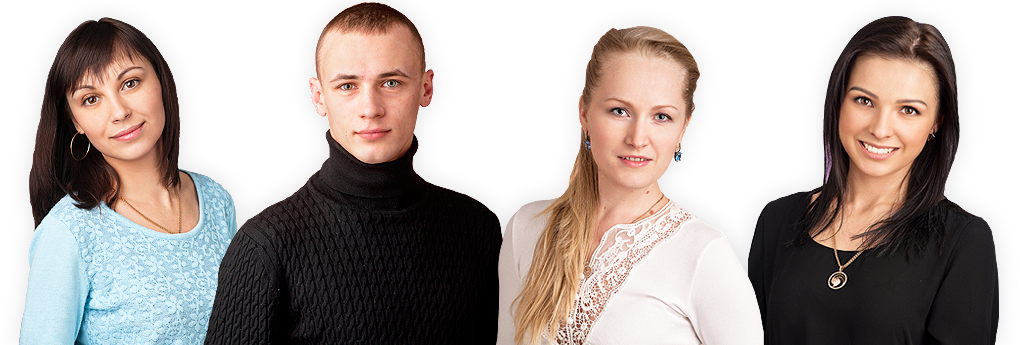
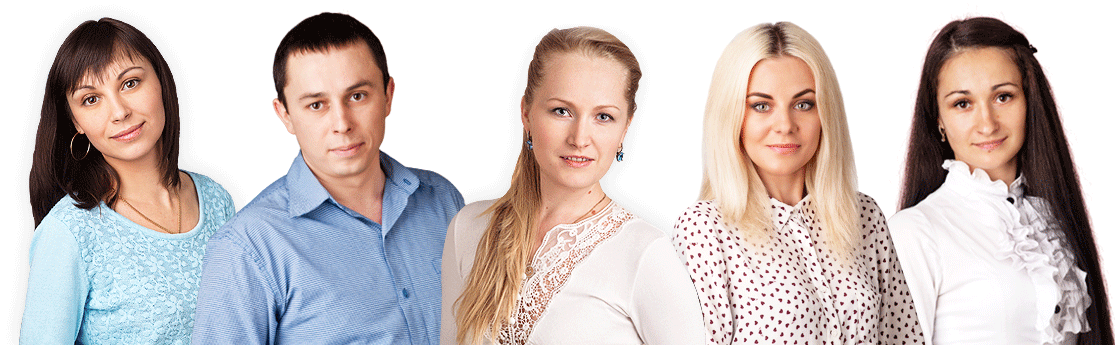
adaptive section "managers"

diff --git a/index.html b/index.html
@@ -466,34 +466,54 @@
 				<h2 class="title managers_title">Менеджеры Luvin<sup>tm</sup><br><span>помогут выбрать ваше идеальное окно</span></h2>
 				<figure class='title__line'></figure>
 				<div class="managers_content">
-					<div class="managers_options">
-						<p>
-							Подберём модель и конструкцию будущих окон
-						</p>
-						<p>
-							Предложим необходимые аксессуары
-						</p>
-						<p>
-							Компетентно ответим на все Ваши вопросы
-						</p>
+					<ul class="managers_options">
+						<li>
+							<p class="managers_options_atr">Подберём модель и конструкцию будущих окон</p>
+							<p>
+								согласно техническим критериям помещения и Вашим пожеланиям по цвету, форме, текстуре и др.
+							</p>
+						</li>
+						<li>
+							<p class="managers_options_atr">Предложим необходимые аксессуары</p>
+							<p>
+								москитные сетки, подоконники, отливы, жалюзи, тканевые или защитные ролеты и много другого по лучшим ценам для наших клиентов.
+							</p>
+						</li>
+						<li>
+							<p class="managers_options_atr">Компетентно ответим на все Ваши вопросы</p>
+							<p>
+								Вы можете задать вопрос нашим менеджерам на любом этапе сотрудничества. Оставьте заявку на сайте или позвоните нам.
+							</p>
+						</li>
+						<li>
+							<p class="managers_options_atr">Реализуем различные дизайнерские идеи</p>
+							<p>
+								нестандартные геометрические формы, более 50-ти цветов, декоративные накладки, витражные рисунки, скрытые петли.
+							</p>
+						</li>
+					</ul>
+					<div class="managers_images">
+						<img src="img/managers-luvin.png" alt="">
 					</div>
 					<div class="managers_form">
 						<h3 class="nameForm form_title">Напишите нам</h3>
 						<p class="nameFormComent form_description">Заполните короткую форму ниже и мы обязательно с вами свяжемся!</p>
 						<form action="" class="formStyle open_form" id="">
-							<div class="open_form_item">
-								<span class='valid'>укажите, как к вам обращаться</span>
-								<input placeholder="Ваше имя" type="text" name="name" id="name_man" class="open_form_item_input"/>
+							<div class="managers_form_input">
+								<div class="open_form_item">
+									<span class='valid'>укажите, как к вам обращаться</span>
+									<input placeholder="Ваше имя" type="text" name="name" id="name_man" class="open_form_item_input"/>
+								</div>
+								<div class="open_form_item">
+									<span class='valid'>пожалуйста, заполните поле email</span>
+									<input placeholder="Електронный адрес" type="email" name="email" id="email_man" class="open_form_item_input"/>
+								</div>
+								<div class="open_form_item">
+									<span class='valid'>укажите телефон для связи</span>
+									<input placeholder="Ваш телефон" type="text" name="phone" id="phone_man" class="open_form_item_input"/>
+								</div>
 							</div>
-							<div class="open_form_item">
-								<span class='valid'>пожалуйста, заполните поле email</span>
-								<input placeholder="Електронный адрес" type="email" name="email" id="email_man" class="open_form_item_input"/>
-							</div>
-							<div class="open_form_item">
-								<span class='valid'>укажите телефон для связи</span>
-								<input placeholder="Ваш телефон" type="text" name="phone" id="phone_man" class="open_form_item_input"/>
-							</div>
-							<div class="open_form_item">
+							<div class="open_form_item managers_form_textaling">
 								<input placeholder="Добавьте вопрос или комментарий" type="textarea" name="subject" id="cont_man" class="open_form_item_input"/>
 							</div>
 							<!-- submit_open_form -->
@@ -503,13 +523,7 @@
 							<p>Ваше обращение отправлено. Наш специалист скоро свяжется с вами.</p>
 						</div>
 					</div>
-					<!-- <div class="managers_images">
-						<img src="img/managers-1.png" alt="">
-						<img src="img/managers-1.png" alt="">
-						<img src="img/managers-1.png" alt="">
-						<img src="img/managers-1.png" alt="">
-						<img src="img/managers-1.png" alt="">
-					</div> -->
+					
 				</div>
 			</div>
 		</div>

diff --git a/css/style_lyuda.css b/css/style_lyuda.css
@@ -576,7 +576,7 @@ background: radial-gradient(ellipse at center, rgba(255,255,255,.9) 0%, rgba(255
 	display: block;
 	width: 20px;
 	height: 20px;
-	background-image: url(../pic/download.svg);
+	background-image: url('../pic/download.svg');
 	-webkit-background-size: contain;
 	     -o-background-size: contain;
 	        background-size: contain;
@@ -586,11 +586,11 @@ background: radial-gradient(ellipse at center, rgba(255,255,255,.9) 0%, rgba(255
 }
 
 .new-window_more-options .more-options_item:nth-child(1):hover::before {
-	background-image: url(../pic/download-hover.svg);
+	background-image: url('../pic/download-hover.svg');
 }
 
 .read-more_wrap1, .read-more_wrap2, .read-more_wrap3 {
-	background: url(../img/luvin-light-big.jpg) center top no-repeat;
+	background: url('../img/luvin-light-big.jpg') center top no-repeat;
 	-webkit-background-size: cover;
 	     -o-background-size: cover;
 	        background-size: cover;
@@ -599,7 +599,7 @@ background: radial-gradient(ellipse at center, rgba(255,255,255,.9) 0%, rgba(255
 }
 
 .read-more_wrap2{
-	background: url(../img/luvin-standart-big.jpg) center top no-repeat;
+	background: url('../img/luvin-standart-big.jpg') center top no-repeat;
 	-webkit-background-size: cover;
 	     -o-background-size: cover;
 	        background-size: cover;
@@ -651,7 +651,6 @@ background: radial-gradient(ellipse at center, rgba(255,255,255,.9) 0%, rgba(255
 }
 
 .managers_content {
-	position: relative;
 	margin: 5% auto 0;
 	background: none;
 	background: -moz-radial-gradient(center, ellipse cover, rgba(255,255,255,.9) 0%, rgba(255,255,255,0.5) 60%, rgba(255,255,255,0.1) 73%, rgba(255,255,255,0) 100%); /* ff3.6+ */
@@ -663,19 +662,77 @@ background: radial-gradient(ellipse at center, rgba(255,255,255,.9) 0%, rgba(255
 }
 
 .managers_options {
-	width: 59%;
-	display: inline-block;
-}
-
-.managers_options p {
 	font-size: 1em;
 	text-align: left;
 	padding-bottom: 15px;
+	list-style-type: none;
+	margin: 0 auto;
+	padding: 0 2%;
+}
+
+.managers_options li {
+	display: inline-block;
+	width: 39%;
+	font-size: 0.9em;
+	padding-left: 8%;
+	vertical-align: top;
+	margin-bottom: 2%;
+	position: relative;
+}
+
+.managers_options li::before {
+	position: absolute;
+	content: "";
+	display: block;
+	width: 15%;
+	height: 55%;
+	top: 0;
+	left: 0;
+}
+
+.managers_options li:nth-child(1)::before {
+	background: url('../pic/managers_acsesories.png') center center no-repeat;
+	-webkit-background-size: contain;
+	     -o-background-size: contain;
+	        background-size: contain;
+}
+.managers_options li:nth-child(2)::before {
+	background: url('../pic/managers_zhaluzi.png') center center no-repeat;
+	-webkit-background-size: contain;
+	     -o-background-size: contain;
+	        background-size: contain;
+}
+.managers_options li:nth-child(3)::before {
+	background: url('../pic/managers_question.png') center center no-repeat;
+	-webkit-background-size: contain;
+	     -o-background-size: contain;
+	        background-size: contain;
+}
+.managers_options li:nth-child(4)::before {
+	background: url('../pic/managers_design.png') center center no-repeat;
+	-webkit-background-size: contain;
+	     -o-background-size: contain;
+	        background-size: contain;
+}
+.managers_options li:nth-child(2),
+.managers_options li:nth-child(4) {
+	margin-left: 5%;
+}
+
+.managers_options_atr {
+	font-weight: 700;
+	text-transform: uppercase;
+}
+
+.managers_images img {
+	width: 100%;
+	border-bottom: 10px solid #ffffff;
 }
 
 .managers_form {
-	width: 40%;
+	width: 100%;
 	display: inline-block;
+	margin-top: 5%;
 }
 
 .form_title {
@@ -690,8 +747,15 @@ background: radial-gradient(ellipse at center, rgba(255,255,255,.9) 0%, rgba(255
 	padding: 0 5%;
 }
 
+.managers_form_input,
+.managers_form_textaling{
+	width: 49%;
+	display: inline-block;
+}
+
 .open_form {
 	padding: 3%;
+	padding-bottom: 0;
 	text-align: left;
 }
 
@@ -724,19 +788,15 @@ background: radial-gradient(ellipse at center, rgba(255,255,255,.9) 0%, rgba(255
 	font-style: italic;
 }
 
-.managers_images {
-	position: absolute;
-	top: 0;
-	bottom: 0;
-	right: 0;
-	left: 0;
+.open_form_item .valid {
+	font-size: 0.7em;
+	color: #ff6200;
 }
 
-.managers_images img {
-	width: 20%;
-	margin-right: -30px;
+#submitOpenForm {
+	min-width: 220px;
+	max-width: 300px;
 }
-
 
 /* end of managers-section styles */
 /* feedback-section styles */
@@ -970,7 +1030,6 @@ background: radial-gradient(ellipse at center, rgba(255,255,255,.9) 0%, rgba(255
 	font-weight: 400;
 	font-style: normal;
 	text-align: center;
-	margin-bottom: 5%;
 }
 
 .formStyle {
@@ -1017,7 +1076,7 @@ background: radial-gradient(ellipse at center, rgba(255,255,255,.9) 0%, rgba(255
 	width: 58%;
 	min-width: 215px;
 	margin: 0 auto;
-	font-size: 14px;
+	font-size: 0.7em;
 	color: #ff6200;
 }
 /* end of showForm_elements */

diff --git a/media/media.css b/media/media.css
@@ -179,10 +179,6 @@
 		padding: 0 0 5px 0;
 	}
 
-	/* .window_list_item::before {
-		display: none;
-	} */
-
 	.new-window_title-text {
 		padding: 15px 5px;
 	}
@@ -243,6 +239,31 @@
 	.around_icon {
 		bottom: 41px;
     }
+
+	.new-window_leftblock, .new-window_rightblock {
+		width: 100%;
+		margin: 0 auto;
+		float: none;
+	}
+
+	.managers_options p:nth-child(2) {
+		display: none;
+	}
+	.managers_options li::before {
+		width: 30px;
+		height: 30px;
+	}
+	.managers_options_atr {
+		text-transform: initial;
+		font-weight: 400;
+	}
+
+	.managers_form_input,
+	.managers_form_textaling{
+		width: 90%;
+		display: block;
+		margin: 0 auto;
+	}
 }
 @media screen and (max-width:480px) {
 	.title-big {
@@ -297,7 +318,6 @@
 		margin: 5% 0;
 	}
 
-
 	.old-window_list__left, .old-window_list__right {
 		width: 90%;
 		margin: 0 auto;
@@ -308,12 +328,6 @@
 	
 	.old-window_list__left li, .old-window_list__right li {
 		padding: 0 0 5px 0;
-	}
-
-	.new-window_leftblock, .new-window_rightblock {
-		width: 90%;
-		margin: 0 auto;
-		float: none;
 	}
 
 	.new-window_titleblock {
@@ -327,6 +341,24 @@
 	.new-window_rightblock {
 		padding-top: 20px;
 	}
+
+	.managers_options li::before {
+		width: 25px;
+		height: 25px;
+	}
+	
+	.managers_options li {
+		width: 50%;
+		display: block;
+		margin: 2% auto !important;
+		padding-left: 15%;
+	}
+
+/* 	.managers_options li:nth-child(2),
+	.managers_options li:nth-child(4) {
+	margin-left: 5%;
+} */
+
 }
 
 @media screen and (max-width:320px) {

diff --git a/library/magnific-popup/magnific-popup.css b/library/magnific-popup/magnific-popup.css
@@ -122,20 +122,6 @@ button.mfp-arrow {
   box-shadow: none;
   touch-action: manipulation; }
 
-/* button::-moz-focus-inner {
-  padding: 0;
-  border: 0; }
-
-button::-webkit-focus-inner {
-  padding: 0;
-  border: 0; }
-
-button::-webkit-focus {
-    -webkit-user-select: none;
-       -moz-user-select: none;
-        -ms-user-select: none;
-} */
-
 button:focus {outline:none;}
 
 .mfp-close {

diff --git a/css/style.css b/css/style.css
@@ -76,7 +76,7 @@
 /*---------button-style---------*/
 
 .submit_form{
-	margin:20px auto;
+	margin:20px auto 0;
 	position: relative;
 	cursor: pointer;
 	width: 60%;
